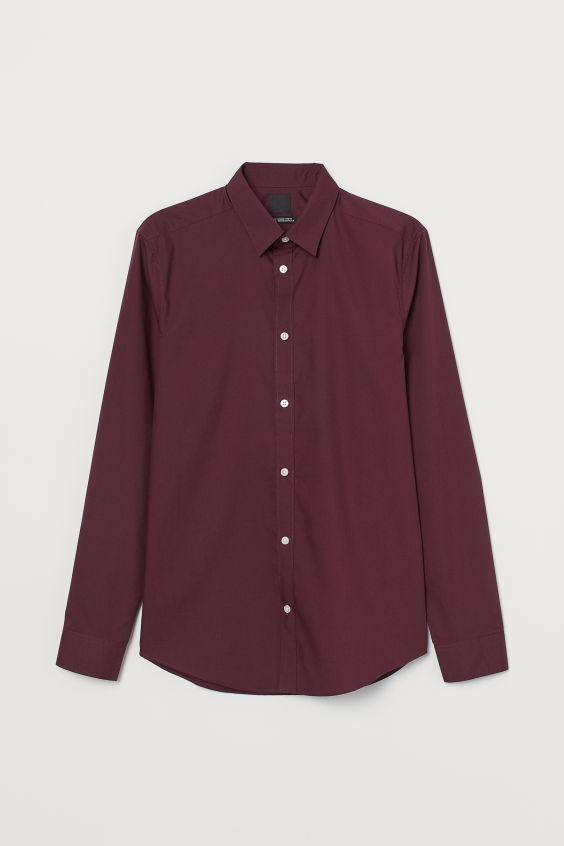
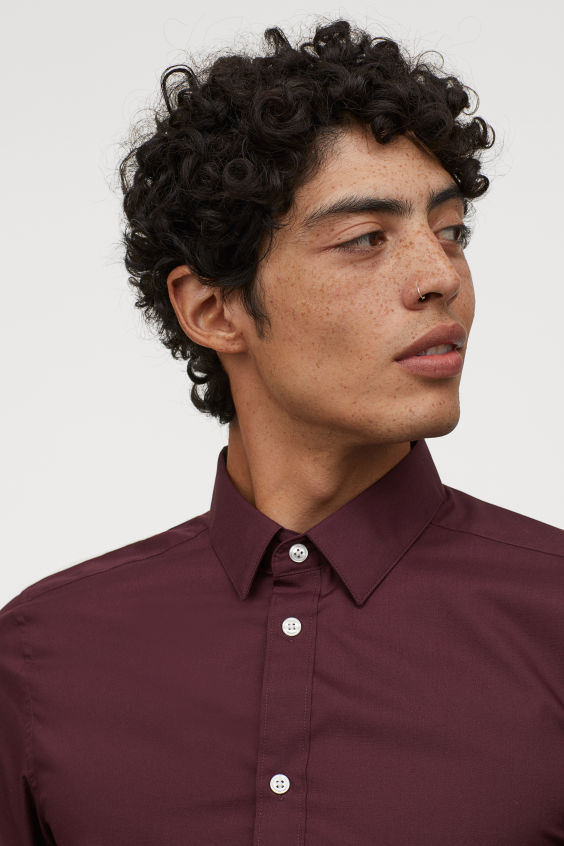
added shirts and carrosel

diff --git a/store/index.html b/store/index.html
@@ -7,41 +7,168 @@
   <meta charset="utf-8">
   <meta name="viewport" content="width=device-width, initial-scale=1">
 
+  <link rel="stylesheet" href="https://maxcdn.bootstrapcdn.com/bootstrap/3.3.7/css/bootstrap.min.css">
+
   <script src="https://maxcdn.bootstrapcdn.com/bootstrap/3.3.7/js/bootstrap.min.js"></script>
 
   <style>
-    .navbar {
-        font-family: Montserrat, sans-serif;
-        margin-bottom: 0;
-        background-color: #2d2d30;
-        border: 0;
-        font-size: 11px !important;
-        letter-spacing: 4px;
-        opacity: 0.9;
+  body {
+      position: relative; 
+  }
+  #Team {padding-top:50px;padding-bottom:25px;}
+  #Coaches {padding-top:50px;padding-bottom:25px;}
+  #Deal {padding-top:50px;padding-bottom:25px;}
+  #Contact {padding-top:50px;padding-bottom:25px;}
+  #Alumni {padding-top:50px;padding-bottom:25px;}
+  img {
+    padding-top:50px;
+    width: 100%;
+    height: auto;
+    -webkit-filter: grayscale(90%);
+    filter: grayscale(0%); /* make all photos black and white */ }
+
+  body {
+      font: 400 15px/1.8 Lato, sans-serif;
+      color: #777;
+  }
+  h3, h4 {
+      margin: 10px 0 30px 0;
+      letter-spacing: 3px;      
+      font-size: 30px;
+      color: #111;
+  }
+  .container {
+      padding: 80px 120px;
+  }
+  .person {
+      border: 10px solid transparent;
+      margin-bottom: 25px;
+      width: 80%;
+      height: 80%;
+      opacity: 0.7;
+  }
+  .person:hover {
+      border-color: #f1f1f1;
+  }
+  .carousel-inner img {
+      -webkit-filter: grayscale(90%);
+      filter: grayscale(0%); /* make all photos black and white */ 
+      width: 100%; /* Set width to 100% */
+      margin: auto;
+  }
+  .carousel-caption h3 {
+      color: #fff !important;
+  }
+  @media (max-width: 600px) {
+    .carousel-caption {
+      display: none; /* Hide the carousel text when the screen is less than 600 pixels wide */
     }
-    .navbar li a, .navbar .navbar-brand { 
-        color: #d5d5d5 !important;
-    }
-    .navbar-nav li a:hover {
-        color: #fff !important;
-    }
-    .navbar-nav li.active a {
-        color: #fff !important;
-        background-color: #29292c !important;
-    }
-    .navbar-default .navbar-toggle {
-        border-color: transparent;
-    }
-    .open .dropdown-toggle {
-        color: #fff;
-        background-color: #555 !important;
-    }
-    .dropdown-menu li a {
-        color: #000 !important;
-    }
-    .dropdown-menu li a:hover {
-        background-color: red !important;
-    }
+  }
+  .bg-1 {
+      background: #2d2d30;
+      color: #bdbdbd;
+  }
+  .bg-1 h3 {color: #fff;}
+  .bg-1 p {font-style: italic;}
+  .list-group-item:first-child {
+      border-top-right-radius: 0;
+      border-top-left-radius: 0;
+  }
+  .list-group-item:last-child {
+      border-bottom-right-radius: 0;
+      border-bottom-left-radius: 0;
+  }
+  .thumbnail {
+      padding: 0 0 15px 0;
+      border: none;
+      border-radius: 0;
+  }
+  .thumbnail p {
+      margin-top: 15px;
+      color: #555;
+  }
+  .btn {
+      padding: 10px 20px;
+      background-color: #333;
+      color: #f1f1f1;
+      border-radius: 0;
+      transition: .2s;
+  }
+  .btn:hover, .btn:focus {
+      border: 1px solid #333;
+      background-color: #fff;
+      color: #000;
+  }
+  .modal-header, h4, .close {
+      background-color: #333;
+      color: #fff !important;
+      text-align: center;
+      font-size: 30px;
+  }
+  .modal-header, .modal-body {
+      padding: 40px 50px;
+  }
+  .nav-tabs li a {
+      color: #777;
+  }
+  #googleMap {
+      width: 100%;
+      height: 400px;
+      -webkit-filter: grayscale(100%);
+      filter: grayscale(100%);
+  }  
+  .navbar {
+      font-family: Montserrat, sans-serif;
+      margin-bottom: 0;
+      background-color: #2d2d30;
+      border: 0;
+      font-size: 11px !important;
+      letter-spacing: 4px;
+      opacity: 0.9;
+  }
+  .navbar li a, .navbar .navbar-brand { 
+      color: #d5d5d5 !important;
+  }
+  .navbar-nav li a:hover {
+      color: #fff !important;
+  }
+  .navbar-nav li.active a {
+      color: #fff !important;
+      background-color: #29292c !important;
+  }
+  .navbar-default .navbar-toggle {
+      border-color: transparent;
+  }
+  .open .dropdown-toggle {
+      color: #fff;
+      background-color: #555 !important;
+  }
+  .dropdown-menu li a {
+      color: #000 !important;
+  }
+  .dropdown-menu li a:hover {
+      background-color: red !important;
+  }
+  footer {
+      background-color: #2d2d30;
+      color: #f5f5f5;
+      padding: 32px;
+  }
+  footer a {
+      color: #f5f5f5;
+  }
+  footer a:hover {
+      color: #777;
+      text-decoration: none;
+  }  
+  .form-control {
+      border-radius: 0;
+  }
+  textarea {
+      resize: none;
+  }
+
+
   </style>
 </head>
 
@@ -104,5 +231,32 @@
 </div>
 
 suh
+
+<div id="shop" class="container-fluid" style="width:100%;">
+  <h1>Sick Shirts</h1>
+  
+  <div class="col-md-3">
+    <center><img src="images/black_full.jpg"></center>
+    Black Shirt<br>$5
+  </div>
+
+  <div class="col-md-3">
+    <center><img src="images/white_full.jpg"></center>
+    Black Shirt<br>$5
+  </div>
+
+  <div class="col-md-3">
+    <center><img src="images/red_full.jpg"></center>
+    Black Shirt<br>$5
+  </div>
+
+  <div class="col-md-3">
+    <center><img src="images/grey_full.jpg"></center>
+    Black Shirt<br>$5
+  </div>
+</div>
+
+
+
 </body>
 </html>
